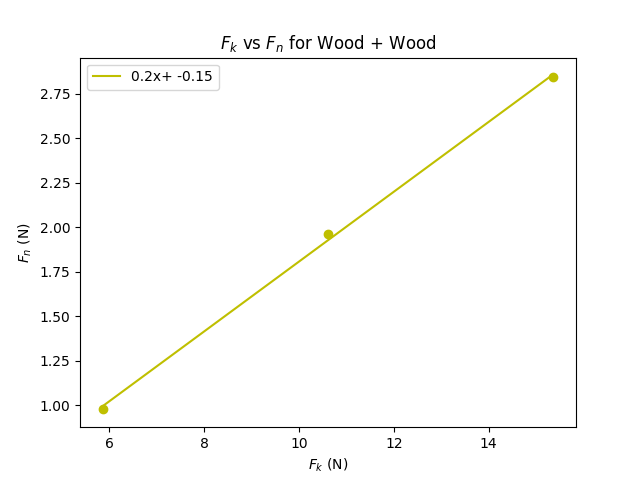
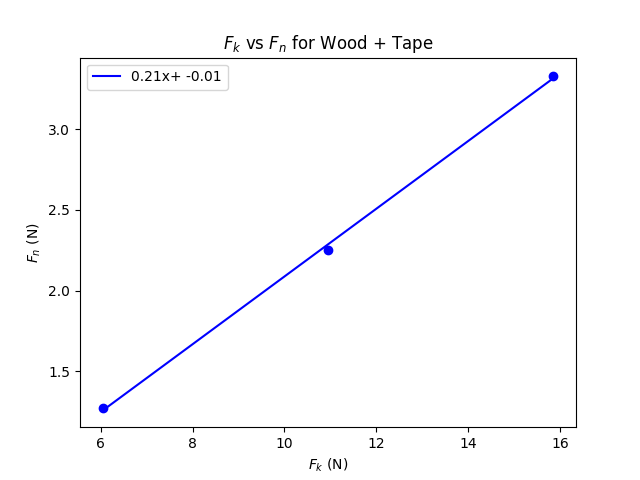
Updating Graphs

diff --git a/SmallQuestions/test.py b/SmallQuestions/test.py
@@ -2,8 +2,12 @@ import matplotlib.pyplot as plt
 from scipy.optimize import curve_fit
 import numpy as np
 
-x1 = [5.8615, 10.6115, 15.3615]
-y1 = [0.98, 1.96, 2.842]
+x1 = [6.0466,
+10.9466,
+15.8466]
+y1 = [1.274,
+2.254,
+3.332]
 slope = (y1[0] - y1[2]) / (x1[0] - x1[2])
 
 
@@ -22,11 +26,11 @@ def plot(x_data, y_data, color):
     plt.plot(xd, line, color=color, label=l)
 
 
-plt.title("$F_k$ vs $F_n$ for Wood + Wood")
+plt.title("$F_k$ vs $F_n$ for Wood + Tape")
 plt.xlabel("$F_k$ (N)")
 plt.ylabel("$F_n$ (N)")
-plt.scatter(x1, y1, color="y")
-plot(x1, y1, color="y")
+plt.scatter(x1, y1, color="b")
+plot(x1, y1, color="b")
 plt.legend(loc="upper left")
 plt.savefig("./force_1.png")
 plt.show()
